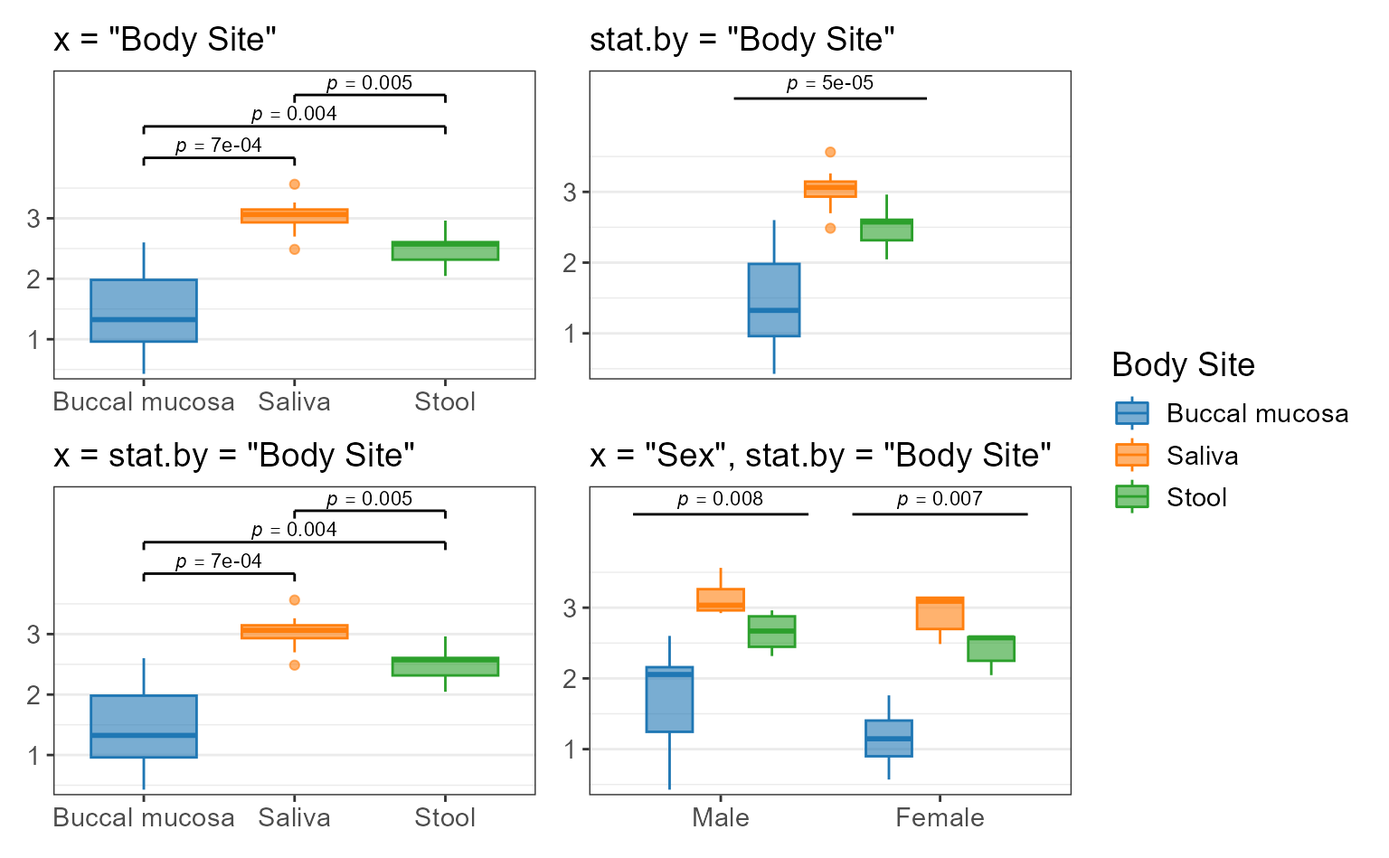
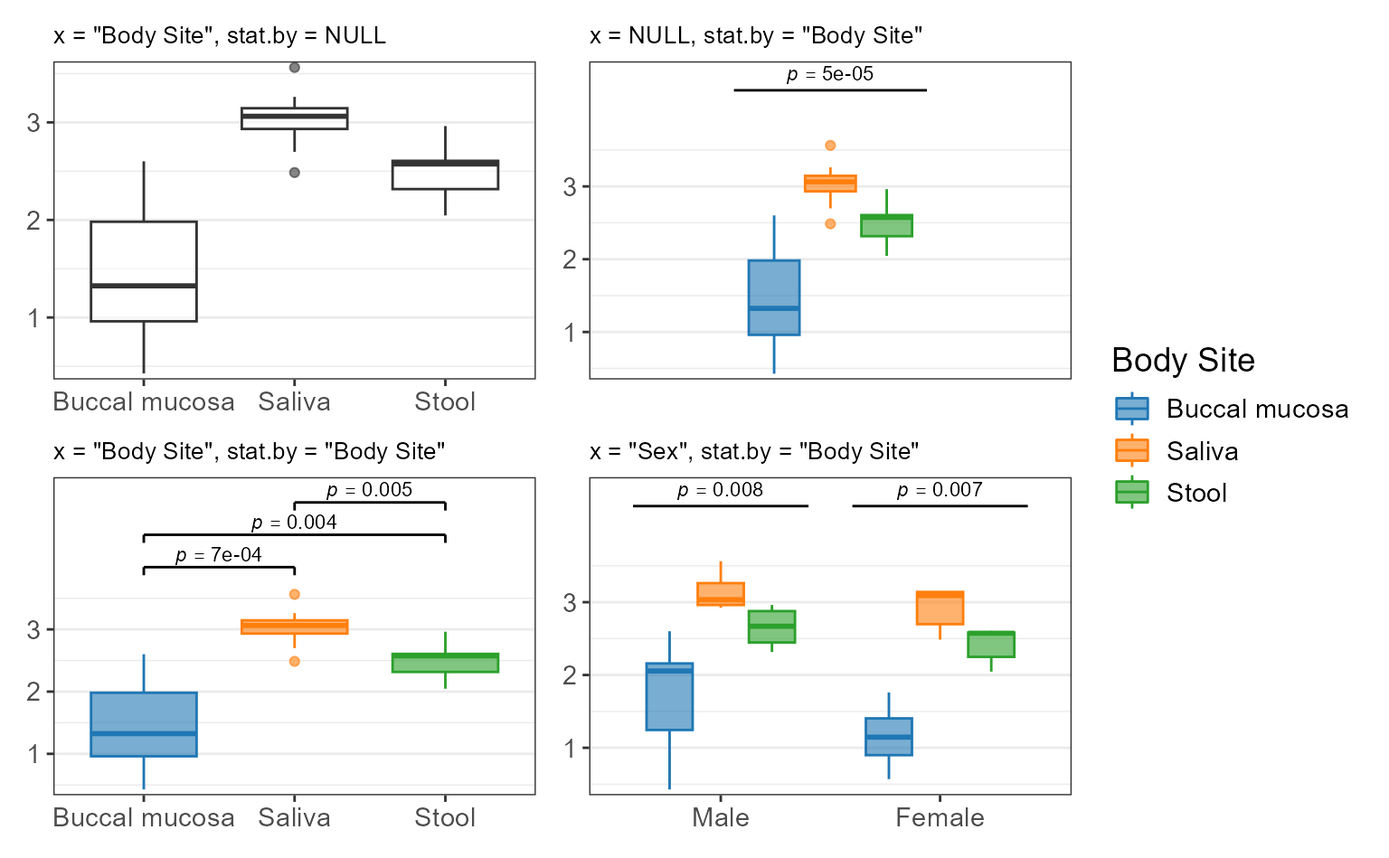
Small fixes to articles.

diff --git a/docs/articles/regression.html b/docs/articles/regression.html
@@ -415,10 +415,10 @@ generated in the last section.</p>
 <code class="sourceCode R"><span><span class="va">st</span><span class="op">$</span><span class="va">.aic</span></span>
 <span><span class="co">#&gt; [1] 16403.78</span></span></code></pre></div>
 <p>These values can be used to decide which <code>fit</code> argument to
-use (“lm”, “log”, or “gam”).</p>
+use (<code>"lm"</code>, <code>"log"</code>, or <code>"gam"</code>).</p>
 <div class="sourceCode" id="cb8"><pre class="downlit sourceCode r">
 <code class="sourceCode R"><span><span class="fu">plyr</span><span class="fu">::</span><span class="fu"><a href="https://rdrr.io/pkg/plyr/man/ldply.html" class="external-link">ldply</a></span><span class="op">(</span><span class="fu"><a href="https://rdrr.io/r/base/c.html" class="external-link">c</a></span><span class="op">(</span>lm<span class="op">=</span><span class="st">"lm"</span>, log<span class="op">=</span><span class="st">"log"</span>, gam<span class="op">=</span><span class="st">"gam"</span><span class="op">)</span>, .id <span class="op">=</span> <span class="st">"fit"</span>, <span class="kw">function</span> <span class="op">(</span><span class="va">fit</span><span class="op">)</span></span>
-<span>  <span class="fu"><a href="../reference/stats_table.html">stats_table</a></span><span class="op">(</span><span class="fu">npregfast</span><span class="fu">::</span><span class="va"><a href="https://rdrr.io/pkg/npregfast/man/children.html" class="external-link">children</a></span>, <span class="st">"age"</span>, <span class="st">"height"</span>, <span class="st">"sex"</span>, fit <span class="op">=</span> <span class="va">fit</span><span class="op">)</span> <span class="op">)</span> <span class="op"><a href="https://magrittr.tidyverse.org/reference/pipe.html" class="external-link">%&gt;%</a></span></span>
+<span>  <span class="fu"><a href="../reference/stats_table.html">stats_table</a></span><span class="op">(</span><span class="fu">npregfast</span><span class="fu">::</span><span class="va"><a href="https://rdrr.io/pkg/npregfast/man/children.html" class="external-link">children</a></span>, <span class="st">"age"</span>, <span class="st">"height"</span>, <span class="st">"sex"</span>, fit <span class="op">=</span> <span class="va">fit</span><span class="op">)</span> <span class="op">)</span> <span class="op">%&gt;%</span></span>
 <span>  <span class="fu">dplyr</span><span class="fu">::</span><span class="fu"><a href="https://dplyr.tidyverse.org/reference/select.html" class="external-link">select</a></span><span class="op">(</span><span class="va">fit</span>, <span class="va">.r.sqr</span><span class="op">:</span><span class="va">.fit.p</span><span class="op">)</span></span>
 <span><span class="co">#&gt;   fit    .r.sqr    .adj.r     .aic     .bic   .loglik .fit.p</span></span>
 <span><span class="co">#&gt; 1  lm 0.7896923 0.7894395 16947.72 16976.84 -8468.858      0</span></span>
@@ -426,7 +426,7 @@ use (“lm”, “log”, or “gam”).</p>
 <span><span class="co">#&gt; 3 gam        NA        NA 16403.78 16497.75 -8185.756     NA</span></span></code></pre></div>
 <p>Based on the above table, <code>fit = "gam"</code> has the lowest
 AIC, lowest BIC, and highest Log-Likelihood, and is therefore the best
-model to use for this set of data and variables.</p>
+model of the three to use for this set of data and variables.</p>
 </div>
 <div class="section level3">
 <h3 id="alternative-hypothesis">Alternative Hypothesis<a class="anchor" aria-label="anchor" href="#alternative-hypothesis"></a>
@@ -435,6 +435,13 @@ model to use for this set of data and variables.</p>
 <code>.p.val</code> together show the hypothesis and its outcome. Above,
 we’re asking if <code>.mean.diff</code> is non-zero. Since
 <code>.p.val</code> is less than 0.05 we can say that it is.</p>
+<div class="sourceCode" id="cb9"><pre class="downlit sourceCode r">
+<code class="sourceCode R"><span><span class="fu">dplyr</span><span class="fu">::</span><span class="fu"><a href="https://dplyr.tidyverse.org/reference/select.html" class="external-link">select</a></span><span class="op">(</span><span class="va">st</span>, <span class="va">.mean.diff</span><span class="op">:</span><span class="va">.p.val</span><span class="op">)</span></span>
+<span><span class="co">#&gt; <span style="color: #949494;"># Model:    gam(height ~ s(age, by = sex, bs = "cs") + sex, method = "REML")</span></span></span>
+<span><span class="co">#&gt; <span style="color: #949494;"># A tibble: 1 × 3</span></span></span>
+<span><span class="co">#&gt;   .mean.diff .h1     .p.val</span></span>
+<span><span class="co">#&gt;        <span style="color: #949494; font-style: italic;">&lt;dbl&gt;</span> <span style="color: #949494; font-style: italic;">&lt;fct&gt;</span>    <span style="color: #949494; font-style: italic;">&lt;dbl&gt;</span></span></span>
+<span><span class="co">#&gt; <span style="color: #BCBCBC;">1</span>      -<span style="color: #BB0000;">7.73</span> != 0  8.88<span style="color: #949494;">e</span><span style="color: #BB0000;">-40</span></span></span></code></pre></div>
 <p>For a more complete review of alternative hypotheses, see the
 <a href="statistics.html#hypothesis">rbiom statistics article</a>.</p>
 </div>
@@ -450,7 +457,7 @@ predicted (fitted) values.</p>
 common plots for visualizing residuals are normal Q-Q plots, residual vs
 fitted value plots, and scale-location plots. You can add these plots to
 any rbiom corrplot by setting <code>check = TRUE</code>.</p>
-<div class="sourceCode" id="cb9"><pre class="downlit sourceCode r">
+<div class="sourceCode" id="cb10"><pre class="downlit sourceCode r">
 <code class="sourceCode R"><span><span class="fu"><a href="../reference/stats_corrplot.html">stats_corrplot</a></span><span class="op">(</span></span>
 <span>  df       <span class="op">=</span> <span class="fu">npregfast</span><span class="fu">::</span><span class="va"><a href="https://rdrr.io/pkg/npregfast/man/children.html" class="external-link">children</a></span>,  <span class="co"># dataset</span></span>
 <span>  x        <span class="op">=</span> <span class="st">'age'</span>,                <span class="co"># x-axis variable</span></span>
@@ -460,7 +467,7 @@ any rbiom corrplot by setting <code>check = TRUE</code>.</p>
 <span>  layers   <span class="op">=</span> <span class="st">'tc'</span>,                 <span class="co"># show trendline with conf. int.</span></span>
 <span>  test     <span class="op">=</span> <span class="st">'emmeans'</span>,            <span class="co"># run stats on the means</span></span>
 <span>  check    <span class="op">=</span> <span class="cn">TRUE</span> <span class="op">)</span>                <span class="co"># display diagnostic plots</span></span></code></pre></div>
-<p><img src="regression_files/figure-html/unnamed-chunk-10-1.png" width="768"></p>
+<p><img src="regression_files/figure-html/unnamed-chunk-11-1.png" width="768"></p>
 <p>The subtitle for each plot tells you what a high quality model will
 look like. For example, the “Normal Q-Q” plot says that “Points should
 fall on the line.” In this case they do, so that particular check
@@ -495,7 +502,7 @@ The original Nature article by Eric J. de Muinck and Pal Trosvik for
 this data set is available online for free at <a href="https://www.nature.com/articles/s41467-018-04641-7" class="external-link">Individuality
 and Convergence of the Infant Gut Microbiota During the First Year of
 Life</a>.</p>
-<div class="sourceCode" id="cb10"><pre class="downlit sourceCode r">
+<div class="sourceCode" id="cb11"><pre class="downlit sourceCode r">
 <code class="sourceCode R"><span><span class="va">gems</span></span>
 <span><span class="co">#&gt; <span style="color: #808080;">══ </span><span style="color: #BBBBBB;">Global Enteric Multicenter Study</span><span style="color: #808080;"> ════════════════════════</span></span></span>
 <span><span class="co">#&gt; Stool samples collected from 1006 participants under the</span></span>
@@ -515,7 +522,7 @@ Life</a>.</p>
 <span><span class="co">#&gt; <span style="color: #808080;">── 116 - 11k reads/sample ──────────────────── 2021-03-15 ──</span></span></span>
 <span></span>
 <span></span>
-<span><span class="fu"><a href="https://pillar.r-lib.org/reference/glimpse.html" class="external-link">glimpse</a></span><span class="op">(</span><span class="va">gems</span><span class="op">)</span></span>
+<span><span class="fu">glimpse</span><span class="op">(</span><span class="va">gems</span><span class="op">)</span></span>
 <span><span class="co">#&gt; Rows: 1,006</span></span>
 <span><span class="co">#&gt; Columns: 4</span></span>
 <span><span class="co">#&gt; $ .sample  <span style="color: #949494; font-style: italic;">&lt;chr&gt;</span> "SRS608640", "SRS608279", "SRS607780", "SRS607987", "SRS60842…</span></span>
@@ -553,10 +560,10 @@ one continuous field:</p>
 </h3>
 <p>To start, let’s select just the healthy controls from two countries,
 then rarefy those samples to an even sequencing depth.</p>
-<div class="sourceCode" id="cb11"><pre class="downlit sourceCode r">
-<code class="sourceCode R"><span><span class="va">hbk</span> <span class="op">&lt;-</span> <span class="va">gems</span> <span class="op"><a href="https://magrittr.tidyverse.org/reference/pipe.html" class="external-link">%&gt;%</a></span></span>
-<span>  <span class="fu"><a href="../reference/subset.html">subset</a></span><span class="op">(</span><span class="va">diarrhea</span> <span class="op">==</span> <span class="st">"Control"</span><span class="op">)</span> <span class="op"><a href="https://magrittr.tidyverse.org/reference/pipe.html" class="external-link">%&gt;%</a></span></span>
-<span>  <span class="fu"><a href="../reference/subset.html">subset</a></span><span class="op">(</span><span class="va">country</span> <span class="op"><a href="https://rdrr.io/r/base/match.html" class="external-link">%in%</a></span> <span class="fu"><a href="https://rdrr.io/r/base/c.html" class="external-link">c</a></span><span class="op">(</span><span class="st">"Bangladesh"</span>, <span class="st">"Kenya"</span><span class="op">)</span><span class="op">)</span> <span class="op"><a href="https://magrittr.tidyverse.org/reference/pipe.html" class="external-link">%&gt;%</a></span></span>
+<div class="sourceCode" id="cb12"><pre class="downlit sourceCode r">
+<code class="sourceCode R"><span><span class="va">hbk</span> <span class="op">&lt;-</span> <span class="va">gems</span> <span class="op">%&gt;%</span></span>
+<span>  <span class="fu"><a href="../reference/subset.html">subset</a></span><span class="op">(</span><span class="va">diarrhea</span> <span class="op">==</span> <span class="st">"Control"</span><span class="op">)</span> <span class="op">%&gt;%</span></span>
+<span>  <span class="fu"><a href="../reference/subset.html">subset</a></span><span class="op">(</span><span class="va">country</span> <span class="op"><a href="https://rdrr.io/r/base/match.html" class="external-link">%in%</a></span> <span class="fu"><a href="https://rdrr.io/r/base/c.html" class="external-link">c</a></span><span class="op">(</span><span class="st">"Bangladesh"</span>, <span class="st">"Kenya"</span><span class="op">)</span><span class="op">)</span> <span class="op">%&gt;%</span></span>
 <span>  <span class="fu"><a href="../reference/rarefy.html">rarefy</a></span><span class="op">(</span><span class="op">)</span></span>
 <span></span>
 <span><span class="va">hbk</span><span class="op">$</span><span class="va">n_samples</span></span>
@@ -571,14 +578,14 @@ use the convenience function <code><a href="../reference/adiv_corrplot.html">adi
 combines the steps of generating a table of alpha diversity values
 (<code><a href="../reference/adiv_table.html">adiv_table()</a></code>) and generating a correlation plot
 (<code><a href="../reference/stats_corrplot.html">stats_corrplot()</a></code>).</p>
-<div class="sourceCode" id="cb12"><pre class="downlit sourceCode r">
+<div class="sourceCode" id="cb13"><pre class="downlit sourceCode r">
 <code class="sourceCode R"><span><span class="fu"><a href="../reference/adiv_corrplot.html">adiv_corrplot</a></span><span class="op">(</span></span>
 <span>  biom    <span class="op">=</span> <span class="va">hbk</span>,         <span class="co"># healthy controls from Bangladesh and Kenya</span></span>
 <span>  x       <span class="op">=</span> <span class="st">"age"</span>,       <span class="co"># x-axis variable</span></span>
 <span>  stat.by <span class="op">=</span> <span class="st">"country"</span>,   <span class="co"># statistical groups</span></span>
 <span>  fit     <span class="op">=</span> <span class="st">"gam"</span>,       <span class="co"># smoothed trendline</span></span>
 <span>  check   <span class="op">=</span> <span class="cn">TRUE</span> <span class="op">)</span>       <span class="co"># display diagnostic plots</span></span></code></pre></div>
-<p><img src="regression_files/figure-html/unnamed-chunk-13-1.png" width="768"></p>
+<p><img src="regression_files/figure-html/unnamed-chunk-14-1.png" width="768"></p>
 <p>Here, the diagnostic plots look pretty good, so we can confidently
 say that children have different Shannon diversity index values,
 depending on whether they live in Bangladesh vs Kenya, and that this
@@ -593,7 +600,7 @@ into a single streamlined function.</p>
 <p>We’ll set <code>layers = "tcrp"</code> to show the residuals on this
 main plot. This will help in explaining an artifact on the “Residuals vs
 Fitted” diagnostic plot.</p>
-<div class="sourceCode" id="cb13"><pre class="downlit sourceCode r">
+<div class="sourceCode" id="cb14"><pre class="downlit sourceCode r">
 <code class="sourceCode R"><span><span class="fu"><a href="../reference/taxa_corrplot.html">taxa_corrplot</a></span><span class="op">(</span></span>
 <span>  biom    <span class="op">=</span> <span class="va">hbk</span>,         <span class="co"># healthy controls from Bangladesh and Kenya</span></span>
 <span>  layers  <span class="op">=</span> <span class="st">"tcrp"</span>,      <span class="co"># show residuals on the main plot</span></span>
@@ -603,7 +610,7 @@ Fitted” diagnostic plot.</p>
 <span>  fit     <span class="op">=</span> <span class="st">"gam"</span>,       <span class="co"># smoothed trendline</span></span>
 <span>  t.size  <span class="op">=</span> <span class="fl">2</span>,           <span class="co"># make the trendline thicker</span></span>
 <span>  check   <span class="op">=</span> <span class="cn">TRUE</span> <span class="op">)</span>       <span class="co"># display diagnostic plots</span></span></code></pre></div>
-<p><img src="regression_files/figure-html/unnamed-chunk-14-1.png" width="768"></p>
+<p><img src="regression_files/figure-html/unnamed-chunk-15-1.png" width="768"></p>
 <p>Above, all the orange and blue points falling on y=0 indicate there
 are zero Prevotella reads for that sample. This can confound taxa
 abundance analyses, as indicated by the diagnostic plots.</p>
@@ -626,10 +633,10 @@ abundances. In rbiom, setting <code>trans = "rank"</code> will rank
 transform all the abundances, without consideration of facets. The
 default parameters <code>ties = "random", seed = 0</code> will assign
 unique integers (see <code><a href="https://rdrr.io/r/base/rank.html" class="external-link">base::rank()</a></code> for other
-<code>ties</code> options.</p>
+<code>ties</code> options).</p>
 <p>This will improve the diagnostic plots, but adds noise to the
 data.</p>
-<div class="sourceCode" id="cb14"><pre class="downlit sourceCode r">
+<div class="sourceCode" id="cb15"><pre class="downlit sourceCode r">
 <code class="sourceCode R"><span><span class="fu"><a href="../reference/taxa_corrplot.html">taxa_corrplot</a></span><span class="op">(</span></span>
 <span>  biom    <span class="op">=</span> <span class="va">hbk</span>,         <span class="co"># healthy controls from Bangladesh and Kenya</span></span>
 <span>  layers  <span class="op">=</span> <span class="st">"tcrp"</span>,      <span class="co"># show residuals on the main plot</span></span>
@@ -640,7 +647,7 @@ data.</p>
 <span>  trans   <span class="op">=</span> <span class="st">"rank"</span>,      <span class="co"># rank-transform the abundances</span></span>
 <span>  t.size  <span class="op">=</span> <span class="fl">2</span>,           <span class="co"># make the trendline thicker</span></span>
 <span>  check   <span class="op">=</span> <span class="cn">TRUE</span> <span class="op">)</span>       <span class="co"># display diagnostic plots</span></span></code></pre></div>
-<p><img src="regression_files/figure-html/unnamed-chunk-15-1.png" width="768"></p>
+<p><img src="regression_files/figure-html/unnamed-chunk-16-1.png" width="768"></p>
 </div>
 </div>
 <div class="section level2">
@@ -662,7 +669,7 @@ which pairs of samples are included in the plot. Setting
 <code>within = "country"</code> as below will only plot pairs of samples
 that came from the same country, and prevent <code>stat.by</code> from
 producing a “Bangladesh vs Kenya” trendline.</p>
-<div class="sourceCode" id="cb15"><pre class="downlit sourceCode r">
+<div class="sourceCode" id="cb16"><pre class="downlit sourceCode r">
 <code class="sourceCode R"><span><span class="fu"><a href="../reference/bdiv_corrplot.html">bdiv_corrplot</a></span><span class="op">(</span></span>
 <span>  biom    <span class="op">=</span> <span class="va">hbk</span>,         <span class="co"># healthy controls from Bangladesh and Kenya</span></span>
 <span>  x       <span class="op">=</span> <span class="st">"age"</span>,       <span class="co"># x-axis variable</span></span>
@@ -670,7 +677,7 @@ producing a “Bangladesh vs Kenya” trendline.</p>
 <span>  within  <span class="op">=</span> <span class="st">"country"</span>,   <span class="co"># don't compare samples from different countries</span></span>
 <span>  fit     <span class="op">=</span> <span class="st">"gam"</span>,       <span class="co"># smoothed trendline</span></span>
 <span>  check   <span class="op">=</span> <span class="cn">TRUE</span> <span class="op">)</span>       <span class="co"># display diagnostic plots</span></span></code></pre></div>
-<p><img src="regression_files/figure-html/unnamed-chunk-16-1.png" width="768"></p>
+<p><img src="regression_files/figure-html/unnamed-chunk-17-1.png" width="768"></p>
 <p>Here, the main plot tells us:</p>
 <ul>
 <li>In Bangladesh, the closer two children are in age to each other, the
@@ -694,7 +701,7 @@ between x = 0.75 and 0.83 on the “Residuals vs Fitted” and
 </h3>
 <p>Running <code><a href="../reference/bdiv_corrplot.html">bdiv_corrplot()</a></code> with <code>trans = "rank"</code>
 could help make the residuals more normally distributed.</p>
-<div class="sourceCode" id="cb16"><pre class="downlit sourceCode r">
+<div class="sourceCode" id="cb17"><pre class="downlit sourceCode r">
 <code class="sourceCode R"><span><span class="fu"><a href="../reference/bdiv_corrplot.html">bdiv_corrplot</a></span><span class="op">(</span></span>
 <span>  biom    <span class="op">=</span> <span class="va">hbk</span>,         <span class="co"># healthy controls from Bangladesh and Kenya</span></span>
 <span>  x       <span class="op">=</span> <span class="st">"age"</span>,       <span class="co"># x-axis variable</span></span>
@@ -703,7 +710,7 @@ could help make the residuals more normally distributed.</p>
 <span>  fit     <span class="op">=</span> <span class="st">"gam"</span>,       <span class="co"># smoothed trendline</span></span>
 <span>  trans   <span class="op">=</span> <span class="st">"rank"</span>,      <span class="co"># rank-transform the abundances</span></span>
 <span>  check   <span class="op">=</span> <span class="cn">TRUE</span> <span class="op">)</span>       <span class="co"># display diagnostic plots</span></span></code></pre></div>
-<p><img src="regression_files/figure-html/unnamed-chunk-17-1.png" width="768"></p>
+<p><img src="regression_files/figure-html/unnamed-chunk-18-1.png" width="768"></p>
 <p>After rank-transforming:</p>
 <ul>
 <li>The main plot tells a slightly different story.</li>
@@ -727,11 +734,11 @@ from different datasets. However, it is arguable that these two datasets
 are the same, just scaled differently. Therefore if you don’t mind
 potentially incurring a reviewer’s wrath, you can rescale both datasets
 to the same range and compare goodness-of-fit values on those.</p>
-<div class="sourceCode" id="cb17"><pre class="downlit sourceCode r">
+<div class="sourceCode" id="cb18"><pre class="downlit sourceCode r">
 <code class="sourceCode R"><span><span class="fu">plyr</span><span class="fu">::</span><span class="fu"><a href="https://rdrr.io/pkg/plyr/man/ldply.html" class="external-link">ldply</a></span><span class="op">(</span><span class="fu"><a href="https://rdrr.io/r/base/c.html" class="external-link">c</a></span><span class="op">(</span>none<span class="op">=</span><span class="st">"none"</span>, rank<span class="op">=</span><span class="st">"rank"</span><span class="op">)</span>, .id <span class="op">=</span> <span class="st">"trans"</span>, <span class="kw">function</span> <span class="op">(</span><span class="va">trans</span><span class="op">)</span></span>
-<span>  <span class="fu"><a href="../reference/bdiv_table.html">bdiv_table</a></span><span class="op">(</span>biom <span class="op">=</span> <span class="va">hbk</span>, within <span class="op">=</span> <span class="st">"country"</span>, trans <span class="op">=</span> <span class="va">trans</span><span class="op">)</span> <span class="op"><a href="https://magrittr.tidyverse.org/reference/pipe.html" class="external-link">%&gt;%</a></span></span>
-<span>    <span class="fu">dplyr</span><span class="fu">::</span><span class="fu"><a href="https://dplyr.tidyverse.org/reference/mutate.html" class="external-link">mutate</a></span><span class="op">(</span>.distance <span class="op">=</span> <span class="fu">scales</span><span class="fu">::</span><span class="fu"><a href="https://scales.r-lib.org/reference/rescale.html" class="external-link">rescale</a></span><span class="op">(</span><span class="va">.distance</span>, to <span class="op">=</span> <span class="fu"><a href="https://rdrr.io/r/base/c.html" class="external-link">c</a></span><span class="op">(</span><span class="fl">0</span>, <span class="fl">1</span><span class="op">)</span><span class="op">)</span><span class="op">)</span> <span class="op"><a href="https://magrittr.tidyverse.org/reference/pipe.html" class="external-link">%&gt;%</a></span></span>
-<span>    <span class="fu"><a href="../reference/stats_table.html">stats_table</a></span><span class="op">(</span>regr <span class="op">=</span> <span class="st">"age"</span>, resp <span class="op">=</span> <span class="st">".distance"</span>, stat.by <span class="op">=</span> <span class="st">"country"</span>, fit <span class="op">=</span> <span class="st">"gam"</span><span class="op">)</span> <span class="op"><a href="https://magrittr.tidyverse.org/reference/pipe.html" class="external-link">%&gt;%</a></span></span>
+<span>  <span class="fu"><a href="../reference/bdiv_table.html">bdiv_table</a></span><span class="op">(</span>biom <span class="op">=</span> <span class="va">hbk</span>, within <span class="op">=</span> <span class="st">"country"</span>, trans <span class="op">=</span> <span class="va">trans</span><span class="op">)</span> <span class="op">%&gt;%</span></span>
+<span>    <span class="fu">dplyr</span><span class="fu">::</span><span class="fu"><a href="https://dplyr.tidyverse.org/reference/mutate.html" class="external-link">mutate</a></span><span class="op">(</span>.distance <span class="op">=</span> <span class="fu">scales</span><span class="fu">::</span><span class="fu"><a href="https://scales.r-lib.org/reference/rescale.html" class="external-link">rescale</a></span><span class="op">(</span><span class="va">.distance</span>, to <span class="op">=</span> <span class="fu"><a href="https://rdrr.io/r/base/c.html" class="external-link">c</a></span><span class="op">(</span><span class="fl">0</span>, <span class="fl">1</span><span class="op">)</span><span class="op">)</span><span class="op">)</span> <span class="op">%&gt;%</span></span>
+<span>    <span class="fu"><a href="../reference/stats_table.html">stats_table</a></span><span class="op">(</span>regr <span class="op">=</span> <span class="st">"age"</span>, resp <span class="op">=</span> <span class="st">".distance"</span>, stat.by <span class="op">=</span> <span class="st">"country"</span>, fit <span class="op">=</span> <span class="st">"gam"</span><span class="op">)</span> <span class="op">%&gt;%</span></span>
 <span>    <span class="fu">dplyr</span><span class="fu">::</span><span class="fu"><a href="https://dplyr.tidyverse.org/reference/select.html" class="external-link">select</a></span><span class="op">(</span><span class="va">.aic</span>, <span class="va">.bic</span>, <span class="va">.loglik</span><span class="op">)</span> <span class="op">)</span></span>
 <span><span class="co">#&gt;   trans      .aic      .bic   .loglik</span></span>
 <span><span class="co">#&gt; 1  none -2785.749 -2698.256  1404.230</span></span>
@@ -747,14 +754,14 @@ data.</p>
 automatically find the x-axis location with the most significant term of
 interest. However, you can override this by providing the
 <code>at</code> parameter.</p>
-<div class="sourceCode" id="cb18"><pre class="downlit sourceCode r">
+<div class="sourceCode" id="cb19"><pre class="downlit sourceCode r">
 <code class="sourceCode R"><span><span class="fu"><a href="../reference/stats_corrplot.html">stats_corrplot</a></span><span class="op">(</span><span class="fu">npregfast</span><span class="fu">::</span><span class="va"><a href="https://rdrr.io/pkg/npregfast/man/children.html" class="external-link">children</a></span>, <span class="st">'age'</span>, <span class="st">'height'</span>, stat.by <span class="op">=</span> <span class="st">'sex'</span>, at <span class="op">=</span> <span class="fl">12</span><span class="op">)</span></span></code></pre></div>
-<p><img src="regression_files/figure-html/unnamed-chunk-19-1.png" width="768"></p>
+<p><img src="regression_files/figure-html/unnamed-chunk-20-1.png" width="768"></p>
 <p>Although you’re limited to one <code>at</code> value for
-<code>_corrplot()</code> functions, you can provide multiple
+<code>*_corrplot()</code> functions, you can provide multiple
 <code>at</code> locations to <code><a href="../reference/stats_table.html">stats_table()</a></code> or
 <code>*_stats()</code> functions.</p>
-<div class="sourceCode" id="cb19"><pre class="downlit sourceCode r">
+<div class="sourceCode" id="cb20"><pre class="downlit sourceCode r">
 <code class="sourceCode R"><span><span class="fu"><a href="../reference/stats_table.html">stats_table</a></span><span class="op">(</span><span class="fu">npregfast</span><span class="fu">::</span><span class="va"><a href="https://rdrr.io/pkg/npregfast/man/children.html" class="external-link">children</a></span>, <span class="st">'age'</span>, <span class="st">'height'</span>, stat.by <span class="op">=</span> <span class="st">'sex'</span>, at <span class="op">=</span> <span class="fl">11</span><span class="op">:</span><span class="fl">15</span><span class="op">)</span></span>
 <span><span class="co">#&gt; <span style="color: #949494;"># Model:    gam(height ~ s(age, by = sex, bs = "cs") + sex, method = "REML")</span></span></span>
 <span><span class="co">#&gt; <span style="color: #949494;"># A tibble: 5 × 14</span></span></span>

diff --git a/docs/articles/statistics.html b/docs/articles/statistics.html
@@ -531,20 +531,21 @@ and group-wise statistics based on the values of <code>x</code> and
 colored pairwise statistics, or set them to different categorical
 metadata fields to get multiple group-wise statistics per plot.</p>
 <div class="sourceCode" id="cb5"><pre class="downlit sourceCode r">
-<code class="sourceCode R"><span><span class="va">biom</span> <span class="op">&lt;-</span> <span class="fu"><a href="../reference/rarefy.html">rarefy</a></span><span class="op">(</span><span class="va">hmp50</span><span class="op">)</span> <span class="op"><a href="https://magrittr.tidyverse.org/reference/pipe.html" class="external-link">%&gt;%</a></span> </span>
+<code class="sourceCode R"><span><span class="va">biom</span> <span class="op">&lt;-</span> <span class="fu"><a href="../reference/rarefy.html">rarefy</a></span><span class="op">(</span><span class="va">hmp50</span><span class="op">)</span> <span class="op">%&gt;%</span> </span>
 <span>  <span class="fu"><a href="../reference/subset.html">subset</a></span><span class="op">(</span><span class="va">`Body Site`</span> <span class="op"><a href="https://rdrr.io/r/base/match.html" class="external-link">%in%</a></span> <span class="fu"><a href="https://rdrr.io/r/base/c.html" class="external-link">c</a></span><span class="op">(</span><span class="st">'Saliva'</span>, <span class="st">'Stool'</span>, <span class="st">'Buccal mucosa'</span><span class="op">)</span><span class="op">)</span></span>
 <span></span>
-<span><span class="va">p1</span> <span class="op">&lt;-</span> <span class="fu"><a href="../reference/adiv_boxplot.html">adiv_boxplot</a></span><span class="op">(</span><span class="va">biom</span>, x <span class="op">=</span> <span class="st">"Body Site"</span><span class="op">)</span></span>
-<span><span class="va">p2</span> <span class="op">&lt;-</span> <span class="fu"><a href="../reference/adiv_boxplot.html">adiv_boxplot</a></span><span class="op">(</span><span class="va">biom</span>, stat.by <span class="op">=</span> <span class="st">"Body Site"</span><span class="op">)</span></span>
+<span><span class="va">p1</span> <span class="op">&lt;-</span> <span class="fu"><a href="../reference/adiv_boxplot.html">adiv_boxplot</a></span><span class="op">(</span><span class="va">biom</span>, x <span class="op">=</span> <span class="st">"Body Site"</span>, stat.by <span class="op">=</span> <span class="cn">NULL</span><span class="op">)</span></span>
+<span><span class="va">p2</span> <span class="op">&lt;-</span> <span class="fu"><a href="../reference/adiv_boxplot.html">adiv_boxplot</a></span><span class="op">(</span><span class="va">biom</span>, x <span class="op">=</span> <span class="cn">NULL</span>,        stat.by <span class="op">=</span> <span class="st">"Body Site"</span><span class="op">)</span></span>
 <span><span class="va">p3</span> <span class="op">&lt;-</span> <span class="fu"><a href="../reference/adiv_boxplot.html">adiv_boxplot</a></span><span class="op">(</span><span class="va">biom</span>, x <span class="op">=</span> <span class="st">"Body Site"</span>, stat.by <span class="op">=</span> <span class="st">"Body Site"</span><span class="op">)</span></span>
-<span><span class="va">p4</span> <span class="op">&lt;-</span> <span class="fu"><a href="../reference/adiv_boxplot.html">adiv_boxplot</a></span><span class="op">(</span><span class="va">biom</span>, x <span class="op">=</span> <span class="st">"Sex"</span>, stat.by <span class="op">=</span> <span class="st">"Body Site"</span><span class="op">)</span></span>
+<span><span class="va">p4</span> <span class="op">&lt;-</span> <span class="fu"><a href="../reference/adiv_boxplot.html">adiv_boxplot</a></span><span class="op">(</span><span class="va">biom</span>, x <span class="op">=</span> <span class="st">"Sex"</span>,       stat.by <span class="op">=</span> <span class="st">"Body Site"</span><span class="op">)</span></span>
 <span></span>
 <span><span class="va">plots</span> <span class="op">&lt;-</span> <span class="fu"><a href="https://rdrr.io/r/base/list.html" class="external-link">list</a></span><span class="op">(</span></span>
-<span>  <span class="va">p1</span> <span class="op">+</span> <span class="fu">ggplot2</span><span class="fu">::</span><span class="fu"><a href="https://ggplot2.tidyverse.org/reference/labs.html" class="external-link">labs</a></span><span class="op">(</span>subtitle <span class="op">=</span> <span class="st">'x = "Body Site"'</span><span class="op">)</span>, </span>
-<span>  <span class="va">p2</span> <span class="op">+</span> <span class="fu">ggplot2</span><span class="fu">::</span><span class="fu"><a href="https://ggplot2.tidyverse.org/reference/labs.html" class="external-link">labs</a></span><span class="op">(</span>subtitle <span class="op">=</span> <span class="st">'stat.by = "Body Site"'</span><span class="op">)</span>, </span>
-<span>  <span class="va">p3</span> <span class="op">+</span> <span class="fu">ggplot2</span><span class="fu">::</span><span class="fu"><a href="https://ggplot2.tidyverse.org/reference/labs.html" class="external-link">labs</a></span><span class="op">(</span>subtitle <span class="op">=</span> <span class="st">'x = stat.by = "Body Site"'</span><span class="op">)</span>, </span>
-<span>  <span class="va">p4</span> <span class="op">+</span> <span class="fu">ggplot2</span><span class="fu">::</span><span class="fu"><a href="https://ggplot2.tidyverse.org/reference/labs.html" class="external-link">labs</a></span><span class="op">(</span>subtitle <span class="op">=</span> <span class="st">'x = "Sex", stat.by = "Body Site"'</span><span class="op">)</span><span class="op">)</span> <span class="op"><a href="https://magrittr.tidyverse.org/reference/pipe.html" class="external-link">%&gt;%</a></span></span>
-<span>  <span class="fu"><a href="https://rdrr.io/r/base/lapply.html" class="external-link">lapply</a></span><span class="op">(</span><span class="va">`+`</span>, <span class="fu">ggplot2</span><span class="fu">::</span><span class="fu"><a href="https://ggplot2.tidyverse.org/reference/labs.html" class="external-link">labs</a></span><span class="op">(</span>x <span class="op">=</span> <span class="cn">NULL</span>, y <span class="op">=</span> <span class="cn">NULL</span>, caption <span class="op">=</span> <span class="cn">NULL</span><span class="op">)</span><span class="op">)</span></span>
+<span>  <span class="va">p1</span> <span class="op">+</span> <span class="fu">ggplot2</span><span class="fu">::</span><span class="fu"><a href="https://ggplot2.tidyverse.org/reference/labs.html" class="external-link">labs</a></span><span class="op">(</span>subtitle <span class="op">=</span> <span class="st">'x = "Body Site", stat.by = NULL'</span><span class="op">)</span>, </span>
+<span>  <span class="va">p2</span> <span class="op">+</span> <span class="fu">ggplot2</span><span class="fu">::</span><span class="fu"><a href="https://ggplot2.tidyverse.org/reference/labs.html" class="external-link">labs</a></span><span class="op">(</span>subtitle <span class="op">=</span> <span class="st">'x = NULL, stat.by = "Body Site"'</span><span class="op">)</span>, </span>
+<span>  <span class="va">p3</span> <span class="op">+</span> <span class="fu">ggplot2</span><span class="fu">::</span><span class="fu"><a href="https://ggplot2.tidyverse.org/reference/labs.html" class="external-link">labs</a></span><span class="op">(</span>subtitle <span class="op">=</span> <span class="st">'x = "Body Site", stat.by = "Body Site"'</span><span class="op">)</span>, </span>
+<span>  <span class="va">p4</span> <span class="op">+</span> <span class="fu">ggplot2</span><span class="fu">::</span><span class="fu"><a href="https://ggplot2.tidyverse.org/reference/labs.html" class="external-link">labs</a></span><span class="op">(</span>subtitle <span class="op">=</span> <span class="st">'x = "Sex", stat.by = "Body Site"'</span><span class="op">)</span><span class="op">)</span> <span class="op">%&gt;%</span></span>
+<span>  <span class="fu"><a href="https://rdrr.io/r/base/lapply.html" class="external-link">lapply</a></span><span class="op">(</span><span class="va">`+`</span>, <span class="fu">ggplot2</span><span class="fu">::</span><span class="fu"><a href="https://ggplot2.tidyverse.org/reference/labs.html" class="external-link">labs</a></span><span class="op">(</span>x <span class="op">=</span> <span class="cn">NULL</span>, y <span class="op">=</span> <span class="cn">NULL</span>, caption <span class="op">=</span> <span class="cn">NULL</span><span class="op">)</span><span class="op">)</span> <span class="op">%&gt;%</span></span>
+<span>  <span class="fu"><a href="https://rdrr.io/r/base/lapply.html" class="external-link">lapply</a></span><span class="op">(</span><span class="va">`+`</span>, <span class="fu">ggplot2</span><span class="fu">::</span><span class="fu"><a href="https://ggplot2.tidyverse.org/reference/theme.html" class="external-link">theme</a></span><span class="op">(</span>plot.subtitle <span class="op">=</span> <span class="fu">ggplot2</span><span class="fu">::</span><span class="fu"><a href="https://ggplot2.tidyverse.org/reference/element.html" class="external-link">element_text</a></span><span class="op">(</span>size <span class="op">=</span> <span class="fl">10</span><span class="op">)</span><span class="op">)</span><span class="op">)</span></span>
 <span></span>
 <span><span class="fu">patchwork</span><span class="fu">::</span><span class="fu"><a href="https://patchwork.data-imaginist.com/reference/wrap_plots.html" class="external-link">wrap_plots</a></span><span class="op">(</span><span class="va">plots</span>, guides <span class="op">=</span> <span class="st">"collect"</span><span class="op">)</span></span></code></pre></div>
 <p><img src="statistics_files/figure-html/unnamed-chunk-7-1.png" width="768"></p>
@@ -554,13 +555,7 @@ with other plots, you can find the full statistics tables and
 reproducible R code in the plot attributes.</p>
 <div class="sourceCode" id="cb6"><pre class="downlit sourceCode r">
 <code class="sourceCode R"><span><span class="va">p1</span><span class="op">$</span><span class="va">stats</span></span>
-<span><span class="co">#&gt; <span style="color: #949494;"># Model:    wilcox.test(.diversity ~ `Body Site`)</span></span></span>
-<span><span class="co">#&gt; <span style="color: #949494;"># A tibble: 3 × 9</span></span></span>
-<span><span class="co">#&gt;   `Body Site`         .mean.diff .h1    .p.val  .adj.p .lower .upper    .n .stat</span></span>
-<span><span class="co">#&gt;   <span style="color: #949494; font-style: italic;">&lt;fct&gt;</span>                    <span style="color: #949494; font-style: italic;">&lt;dbl&gt;</span> <span style="color: #949494; font-style: italic;">&lt;fct&gt;</span>   <span style="color: #949494; font-style: italic;">&lt;dbl&gt;</span>   <span style="color: #949494; font-style: italic;">&lt;dbl&gt;</span>  <span style="color: #949494; font-style: italic;">&lt;dbl&gt;</span>  <span style="color: #949494; font-style: italic;">&lt;dbl&gt;</span> <span style="color: #949494; font-style: italic;">&lt;int&gt;</span> <span style="color: #949494; font-style: italic;">&lt;dbl&gt;</span></span></span>
-<span><span class="co">#&gt; <span style="color: #BCBCBC;">1</span> Buccal mucosa - Sa…     -<span style="color: #BB0000;">1.68</span>  != 0  2.46<span style="color: #949494;">e</span><span style="color: #BB0000;">-4</span> 7.38<span style="color: #949494;">e</span><span style="color: #BB0000;">-4</span> -<span style="color: #BB0000;">2.19</span>  -<span style="color: #BB0000;">0.982</span>    20     1</span></span>
-<span><span class="co">#&gt; <span style="color: #BCBCBC;">2</span> Buccal mucosa - St…     -<span style="color: #BB0000;">1.16</span>  != 0  2.88<span style="color: #949494;">e</span><span style="color: #BB0000;">-3</span> 4.32<span style="color: #949494;">e</span><span style="color: #BB0000;">-3</span> -<span style="color: #BB0000;">1.70</span>  -<span style="color: #BB0000;">0.447</span>    19     8</span></span>
-<span><span class="co">#&gt; <span style="color: #BCBCBC;">3</span> Saliva - Stool           0.520 != 0  4.85<span style="color: #949494;">e</span><span style="color: #BB0000;">-3</span> 4.85<span style="color: #949494;">e</span><span style="color: #BB0000;">-3</span>  0.186  0.824    19    80</span></span>
+<span><span class="co">#&gt; NULL</span></span>
 <span></span>
 <span><span class="va">p2</span><span class="op">$</span><span class="va">stats</span></span>
 <span><span class="co">#&gt; <span style="color: #949494;"># Model:    kruskal.test(.diversity ~ `Body Site`)</span></span></span>
@@ -620,9 +615,9 @@ vignette(“articles/regression”).</p>
 <p>Depending on the arguments given to <code>stat.by</code> and
 <code>test</code>, you can test:</p>
 <div class="sourceCode" id="cb7"><pre class="downlit sourceCode r">
-<code class="sourceCode R"><span><span class="va">biom</span> <span class="op">&lt;-</span> <span class="va">gems</span> <span class="op"><a href="https://magrittr.tidyverse.org/reference/pipe.html" class="external-link">%&gt;%</a></span></span>
-<span>  <span class="fu"><a href="../reference/subset.html">subset</a></span><span class="op">(</span><span class="va">diarrhea</span> <span class="op">==</span> <span class="st">"Control"</span><span class="op">)</span> <span class="op"><a href="https://magrittr.tidyverse.org/reference/pipe.html" class="external-link">%&gt;%</a></span></span>
-<span>  <span class="fu"><a href="../reference/subset.html">subset</a></span><span class="op">(</span><span class="va">country</span> <span class="op"><a href="https://rdrr.io/r/base/match.html" class="external-link">%in%</a></span> <span class="fu"><a href="https://rdrr.io/r/base/c.html" class="external-link">c</a></span><span class="op">(</span><span class="st">"Bangladesh"</span>, <span class="st">"Kenya"</span><span class="op">)</span><span class="op">)</span> <span class="op"><a href="https://magrittr.tidyverse.org/reference/pipe.html" class="external-link">%&gt;%</a></span></span>
+<code class="sourceCode R"><span><span class="va">biom</span> <span class="op">&lt;-</span> <span class="va">gems</span> <span class="op">%&gt;%</span></span>
+<span>  <span class="fu"><a href="../reference/subset.html">subset</a></span><span class="op">(</span><span class="va">diarrhea</span> <span class="op">==</span> <span class="st">"Control"</span><span class="op">)</span> <span class="op">%&gt;%</span></span>
+<span>  <span class="fu"><a href="../reference/subset.html">subset</a></span><span class="op">(</span><span class="va">country</span> <span class="op"><a href="https://rdrr.io/r/base/match.html" class="external-link">%in%</a></span> <span class="fu"><a href="https://rdrr.io/r/base/c.html" class="external-link">c</a></span><span class="op">(</span><span class="st">"Bangladesh"</span>, <span class="st">"Kenya"</span><span class="op">)</span><span class="op">)</span> <span class="op">%&gt;%</span></span>
 <span>  <span class="fu"><a href="../reference/rarefy.html">rarefy</a></span><span class="op">(</span><span class="op">)</span></span>
 <span></span>
 <span><span class="va">p1</span> <span class="op">&lt;-</span> <span class="fu"><a href="../reference/adiv_corrplot.html">adiv_corrplot</a></span><span class="op">(</span><span class="va">biom</span>, x <span class="op">=</span> <span class="st">"age"</span>, test <span class="op">=</span> <span class="st">"emmeans"</span><span class="op">)</span></span>
@@ -634,7 +629,7 @@ vignette(“articles/regression”).</p>
 <span>  <span class="va">p1</span> <span class="op">+</span> <span class="fu">ggplot2</span><span class="fu">::</span><span class="fu"><a href="https://ggplot2.tidyverse.org/reference/labs.html" class="external-link">labs</a></span><span class="op">(</span>subtitle <span class="op">=</span> <span class="st">'Is the mean non-zero?'</span><span class="op">)</span>, </span>
 <span>  <span class="va">p2</span> <span class="op">+</span> <span class="fu">ggplot2</span><span class="fu">::</span><span class="fu"><a href="https://ggplot2.tidyverse.org/reference/labs.html" class="external-link">labs</a></span><span class="op">(</span>subtitle <span class="op">=</span> <span class="st">'Do means vary by group?'</span><span class="op">)</span>, </span>
 <span>  <span class="va">p3</span> <span class="op">+</span> <span class="fu">ggplot2</span><span class="fu">::</span><span class="fu"><a href="https://ggplot2.tidyverse.org/reference/labs.html" class="external-link">labs</a></span><span class="op">(</span>subtitle <span class="op">=</span> <span class="st">'Is the slope non-horizontal?'</span><span class="op">)</span>, </span>
-<span>  <span class="va">p4</span> <span class="op">+</span> <span class="fu">ggplot2</span><span class="fu">::</span><span class="fu"><a href="https://ggplot2.tidyverse.org/reference/labs.html" class="external-link">labs</a></span><span class="op">(</span>subtitle <span class="op">=</span> <span class="st">'Do slopes vary by group?'</span><span class="op">)</span><span class="op">)</span> <span class="op"><a href="https://magrittr.tidyverse.org/reference/pipe.html" class="external-link">%&gt;%</a></span></span>
+<span>  <span class="va">p4</span> <span class="op">+</span> <span class="fu">ggplot2</span><span class="fu">::</span><span class="fu"><a href="https://ggplot2.tidyverse.org/reference/labs.html" class="external-link">labs</a></span><span class="op">(</span>subtitle <span class="op">=</span> <span class="st">'Do slopes vary by group?'</span><span class="op">)</span><span class="op">)</span> <span class="op">%&gt;%</span></span>
 <span>  <span class="fu"><a href="https://rdrr.io/r/base/lapply.html" class="external-link">lapply</a></span><span class="op">(</span><span class="va">`+`</span>, <span class="fu">ggplot2</span><span class="fu">::</span><span class="fu"><a href="https://ggplot2.tidyverse.org/reference/labs.html" class="external-link">labs</a></span><span class="op">(</span>x <span class="op">=</span> <span class="cn">NULL</span>, y <span class="op">=</span> <span class="cn">NULL</span>, caption <span class="op">=</span> <span class="cn">NULL</span><span class="op">)</span><span class="op">)</span></span>
 <span></span>
 <span><span class="fu">patchwork</span><span class="fu">::</span><span class="fu"><a href="https://patchwork.data-imaginist.com/reference/wrap_plots.html" class="external-link">wrap_plots</a></span><span class="op">(</span><span class="va">plots</span>, guides <span class="op">=</span> <span class="st">"collect"</span><span class="op">)</span></span></code></pre></div>
